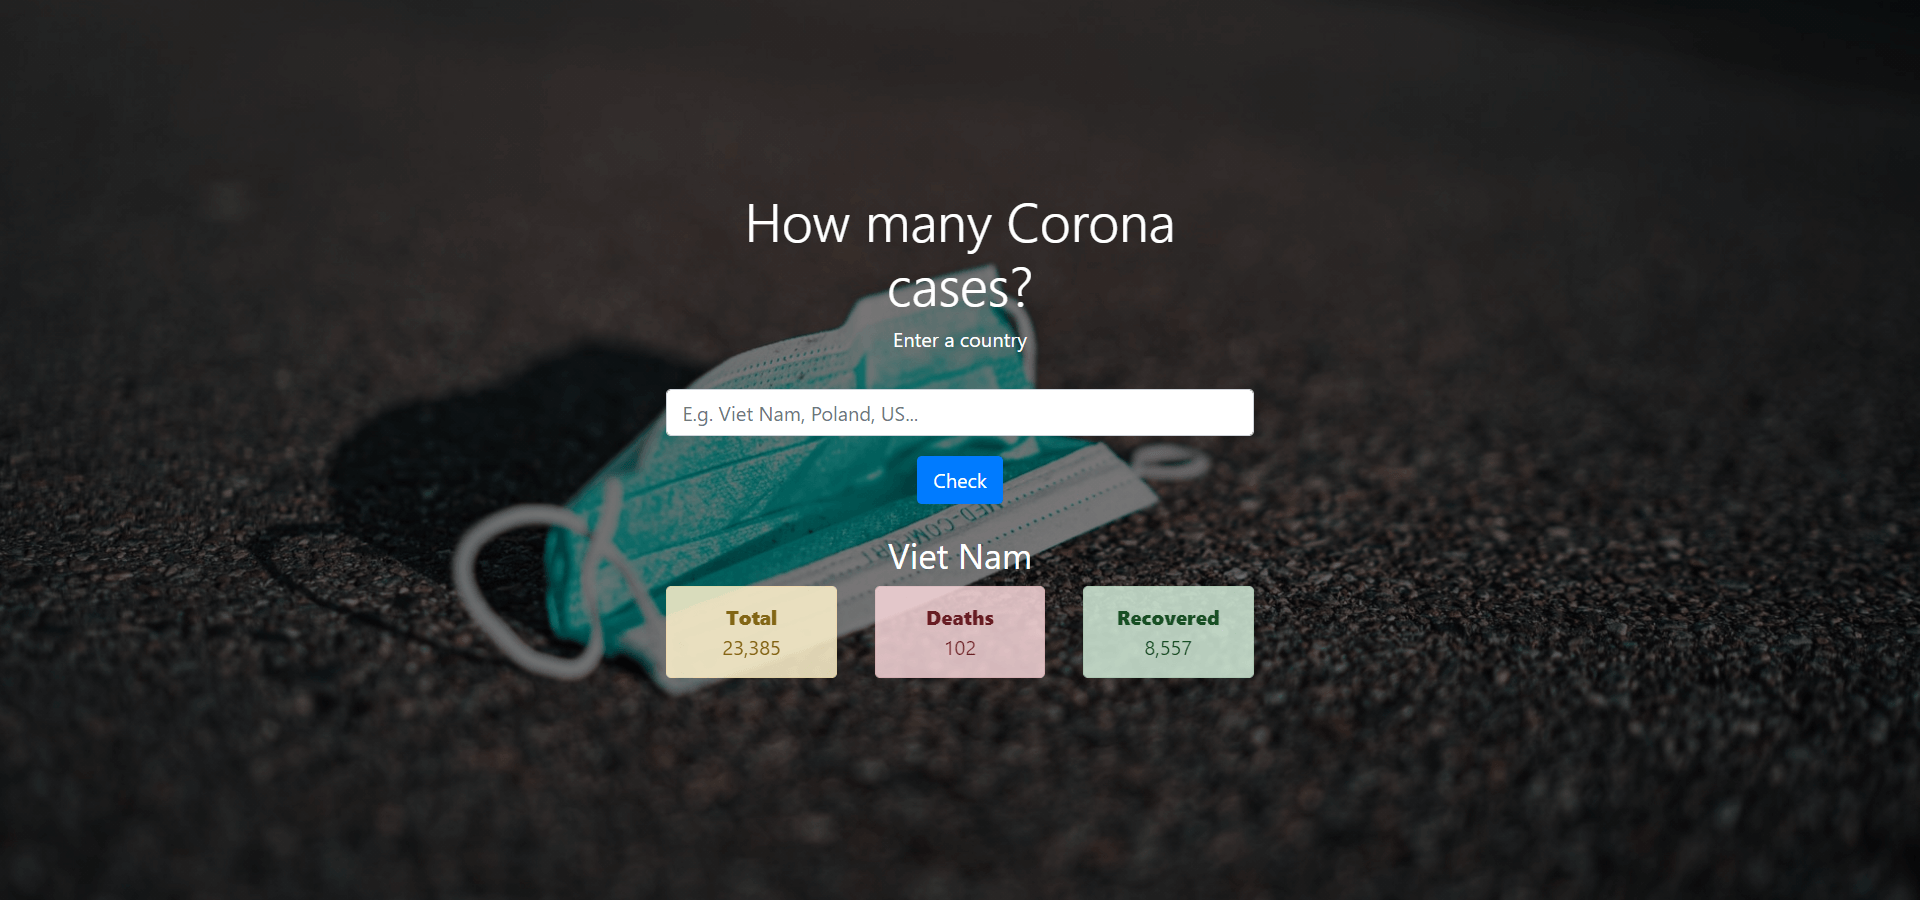
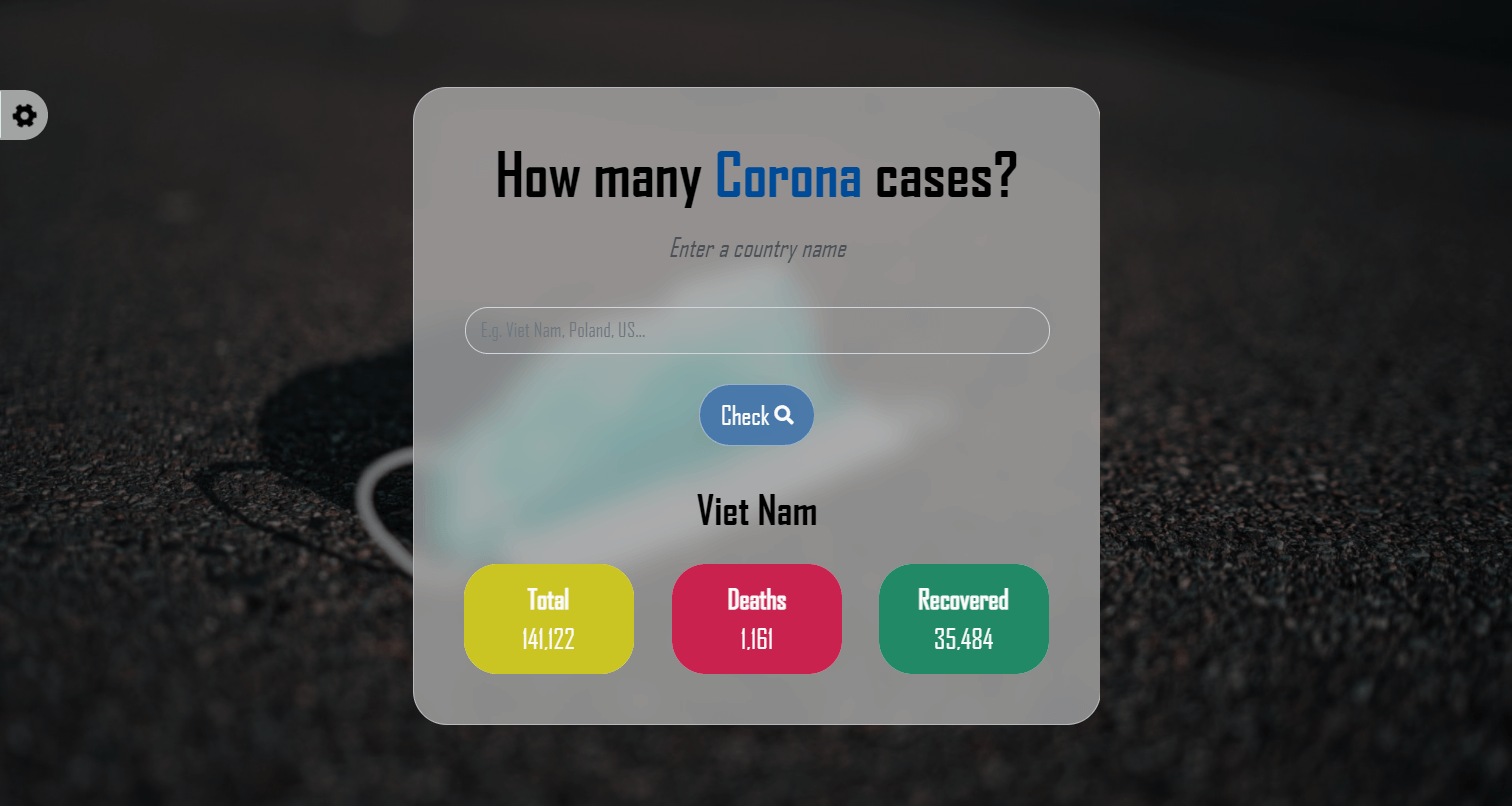
Update Corona Checker image

diff --git a/sections/portfolio.php b/sections/portfolio.php
@@ -399,7 +399,7 @@ function formatLabel($str, $sep = '-')
                                 displayPortfolioItem(
                                         label: 'Corona Checker',
                                         isGalleryItem: false,
-                                        displayFileRatio: '192/90',
+                                        displayFileRatio: '1512/806',
                                         accessUrl: 'enginoobz.com/projects/corona-checker',
                                         filters: 'utility small  web completed ',
                                         codeUrl: 'enginoobz-projects/corona-checker'
